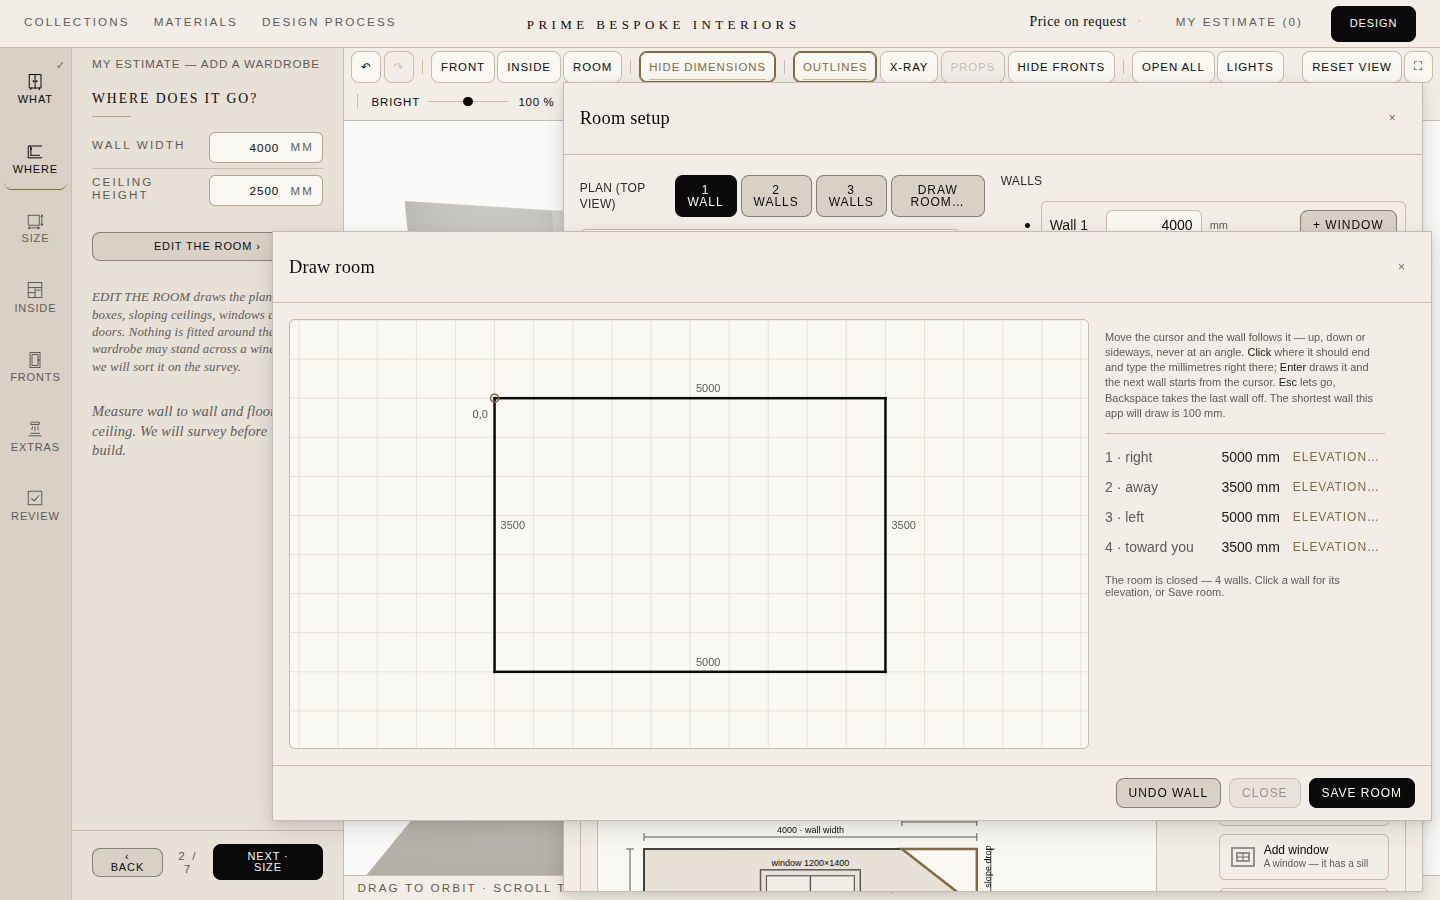
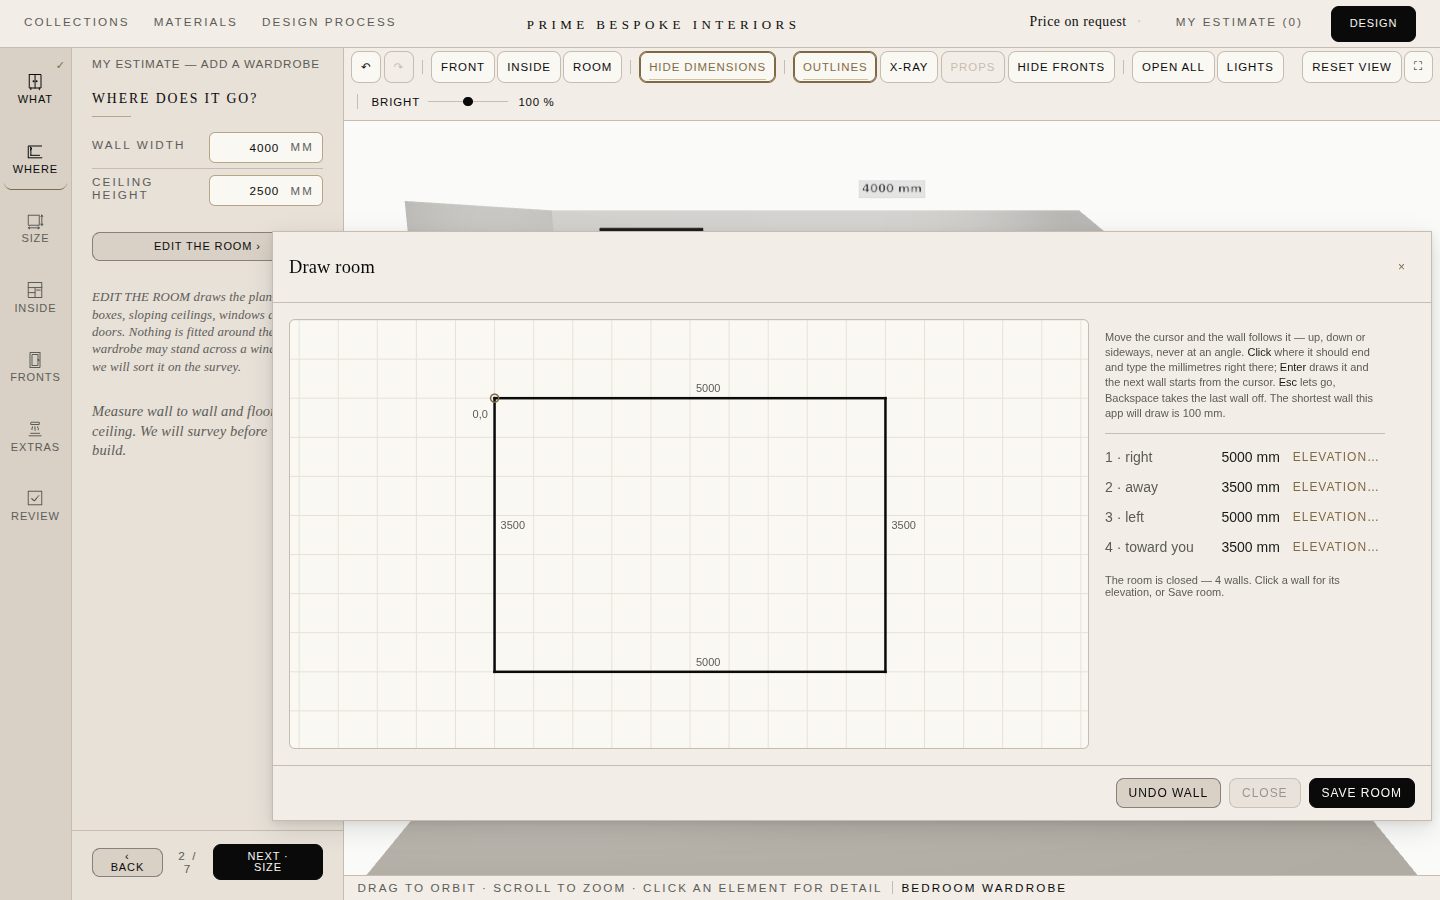
T74 F4 · setup room: a new room replaces the old one
setRoom gains { replace: true }: the new outline goes in and the old
room's openings, boxes and wall elements (slopes, recesses, chimneys)
go out in the same write, and only when the guard lets the new room
stand; height and returns are kept, cabinets are never touched. The
first save of a drawing (PRO and retail) is the new room; later saves of
the same drawing merge. Retail's room window no longer hides under the
drawing with the old outline: the drawing replaces it, as PRO's does.
The probe re-run after is committed beside the one before.

Claude-Session: https://claude.ai/code/session_01UVqjkXTvbnvDuKw9t6Pjdx

diff --git a/test/turn74-f4-a-new-room-replaces-the-old.test.js b/test/turn74-f4-a-new-room-replaces-the-old.test.js
@@ -1,0 +1,110 @@
+// ─── TURN 74 · F4 · SETUP ROOM: A NEW ROOM REPLACES THE OLD ONE ────────────
+//
+// The owner, 23.09.2026 (list point 2):
+//
+//   *"Przy tworzeniu nowego pokoju po starym jeden nachodzi na drugi zamiast
+//   resetu."*
+//
+// The probe (`verify/t74/f04-probe.md`, real mouse, committed before the fix)
+// convicted two sites: `setRoom` MERGES, so a drawn room kept the old room's
+// window and slope; and retail's room window stayed under the drawing with its
+// own draft of the old outline. These assertions are the probe's table.
+
+import test from 'node:test';
+import assert from 'node:assert/strict';
+import { readFileSync } from 'node:fs';
+
+import { rectCorners } from '../src/engine/room.js';
+import { cornersOfPath, newPath, addSegment, closePath } from '../src/engine/drawRoom.js';
+import { useProjectStore } from '../src/stores/projectStore.js';
+
+const ROOT = new URL('../', import.meta.url).pathname;
+const read = (rel) => readFileSync(`${ROOT}${rel}`, 'utf8');
+const uncomment = (t) => t.replace(/\/\*[\s\S]*?\*\//g, ' ').replace(/^[ \t]*\/\/.*$/gm, ' ');
+const S = () => useProjectStore.getState();
+
+/** A drawn rectangle, the engine's own way (`engine/drawRoom.js`). */
+function drawn(w, d) {
+  let path = newPath();
+  for (const [dir, mm] of [['E', w], ['S', d], ['W', w]]) path = addSegment(path, dir, mm).path;
+  return cornersOfPath(closePath(path).path);
+}
+
+/** The probe's OLD room: a window and a slope on wall 1, a box, one wardrobe. */
+function oldRoom() {
+  S().newProject();
+  S().setRoom({ corners: rectCorners(4000, 3000), height: 2500 });
+  S().addOpening({ kind: 'window', wall: 0, x_mm: 1400, width: 1200, height: 1400, sill: 850 });
+  S().setRoom({ boxes: [{ id: 'b1', x: 3000, y: 2000, w: 600, d: 400 }] });
+  S().addWallSlope({ wall: 0, side: 'right', kind: 'slope' });
+  const { id } = S().addUnit('WARDROBE', { params: { width: 1000, height: 2100, depth: 600 } });
+  assert.equal(S().project.room.openings.length, 1);
+  assert.ok((S().project.wallSlopes || []).length >= 1, 'the old room has no slope to lose');
+  assert.equal((S().project.room.boxes || []).length, 1);
+  return id;
+}
+
+test('T74 F4 · a NEW room replaces the old: walls, openings, boxes and slopes of the old one go', () => {
+  const unitId = oldRoom();
+  const verdict = S().setRoom({ corners: drawn(5000, 3500) }, { replace: true });
+  assert.equal(verdict.ok, true, verdict.message);
+  const room = S().project.room;
+  assert.deepEqual(room.corners.map((c) => [Math.round(c.x), Math.round(c.y)]),
+    [[0, 0], [5000, 0], [5000, 3500], [0, 3500]]);
+  assert.deepEqual(room.openings, [], 'the old room\'s window stands on the new room');
+  assert.equal((room.boxes || []).length, 0, 'the old room\'s box stands in the new room');
+  assert.deepEqual(S().project.wallSlopes, [], 'the old room\'s slope cuts the new room');
+  // The height and the returns are the room's settings, not its geometry.
+  assert.equal(room.height, 2500);
+  // Cabinets are NOT deleted.
+  assert.ok(S().units.some((u) => u.id === unitId), 'a cabinet was deleted');
+});
+
+test('T74 F4 · a refused new room clears NOTHING (the guard speaks first)', () => {
+  const unitId = oldRoom();
+  // A room too small for the wardrobe standing in it.
+  const verdict = S().setRoom({ corners: drawn(600, 400) }, { replace: true });
+  assert.equal(verdict.ok, false, 'a room smaller than its cabinet was accepted');
+  assert.equal(S().project.room.openings.length, 1, 'the refusal cleared the window');
+  assert.ok(S().project.wallSlopes.length >= 1, 'the refusal cleared the slope');
+  assert.equal(S().project.room.boxes.length, 1, 'the refusal cleared the box');
+  assert.ok(S().units.some((u) => u.id === unitId));
+});
+
+test('T74 F4 · without `replace`, setRoom is the merge it always was (an edit of THIS room)', () => {
+  oldRoom();
+  assert.equal(S().setRoom({ corners: rectCorners(4200, 3000) }).ok, true);
+  assert.equal(S().project.room.openings.length, 1, 'a wall edit lost the window');
+  assert.ok(S().project.wallSlopes.length >= 1, 'a wall edit lost the slope');
+});
+
+test('T74 F4 · both drawing windows: the FIRST save of a drawing is the new room', () => {
+  for (const rel of ['src/components/DrawRoomModal.jsx', 'src/retail/design/room/DrawRoomModal.jsx']) {
+    const src = uncomment(read(rel));
+    assert.match(src, /const newRoom = useRef\(true\);/, `${rel} does not know a drawing is a new room`);
+    assert.match(src, /setRoom\(\{ corners: cornersOfPath\(path\) \}, \{ replace: newRoom\.current \}\)/,
+      `${rel} saves a drawn room as a merge`);
+    // …and only the first: a window put on a NEW wall through its elevation
+    // (the wall click saves, then the elevation adds) survives the next save.
+    const save = src.slice(src.indexOf('const save = useCallback'), src.indexOf('const openWall'));
+    assert.match(save, /newRoom\.current = false;/, `${rel} replaces on every save`);
+    assert.ok(save.indexOf('newRoom.current = false;') > save.indexOf('if (!verdict?.ok)'),
+      `${rel} forgets the new room before the guard has let it stand`);
+  }
+});
+
+test('T74 F4 · retail: the drawing takes the room window\'s place, as PRO\'s does', () => {
+  const room = uncomment(read('src/retail/design/DesignRoom.jsx'));
+  assert.match(room, /const modalNow = useUiStore\(\(s\) => s\.modal\);/);
+  assert.match(room, /useEffect\(\(\) => \{ if \(modalNow === 'draw-room'\) setRoomEditor\(null\); \}, \[modalNow\]\);/);
+});
+
+test('T74 F4 · one law, one path: the replace is `setRoom`\'s own, with its own guard', () => {
+  const store = uncomment(read('src/stores/projectStore.js'));
+  const body = store.slice(store.indexOf('setRoom: (patch, opts = {}) => {'), store.indexOf('previewRoom:'));
+  assert.match(body, /const fresh = opts\?\.replace === true;/);
+  assert.match(body, /openings: \[\], boxes: \[\],/);
+  assert.match(body, /const verdict = roomChangeGuard\(next, s\.units\);\s*if \(!verdict\.ok\) return verdict;/);
+  assert.match(body, /\.\.\.\(fresh \? \{ wallSlopes: \[\] \} : \{\}\)/);
+  assert.ok(!/removeUnit|units: \[\]/.test(body), 'the new room deletes cabinets');
+});

diff --git a/src/stores/projectStore.js b/src/stores/projectStore.js
@@ -1299,14 +1299,38 @@ export const useProjectStore = create(dirtyGate((set, get) => ({
    * can create an overlap with nobody dragging anything, so it is blocked at
    * the setter rather than repaired afterwards (CLAUDE.md phase 3).
    *
+   * ─── T74 F4 · A NEW ROOM REPLACES THE OLD ONE ─────────────────────────────
+   *
+   * The owner, 23.09.2026: *"Przy tworzeniu nowego pokoju po starym jeden
+   * nachodzi na drugi zamiast resetu."*  The probe (`verify/t74/f04-probe.md`)
+   * convicted this setter: it MERGES, and the walls' elements live beside the
+   * room (`project.wallSlopes`), so a drawn room replaced the outline and kept
+   * every window, door, box, slope, recess and chimney of the room before it.
+   *
+   * `{ replace: true }` is the NEW ROOM: the old room's geometry goes (its
+   * openings, its boxes and every wall element) in the same write that puts
+   * the new outline in, and only when the guard lets the new outline stand, so
+   * a refused room clears nothing. The room's height and its returns are kept
+   * (the drawing asks for neither). Cabinets are NOT touched: one standing
+   * outside the new room is refused by the guard below, in its own words, as
+   * it always was. Without the option this is the merge it always was, which
+   * is what an edit of THIS room (a wall's width, a window) needs.
+   *
+   * @param {object} patch
+   * @param {{replace?:boolean}} [opts]
    * @returns {{ok:boolean, message:string|null, blocking:Array}}
    */
-  setRoom: (patch) => {
+  setRoom: (patch, opts = {}) => {
     const s = get();
-    const next = migrateRoom({ ...s.project.room, ...patch });
+    const fresh = opts?.replace === true;
+    const next = migrateRoom(fresh
+      ? {
+        ...s.project.room, ...patch, openings: [], boxes: [],
+      }
+      : { ...s.project.room, ...patch });
     const verdict = roomChangeGuard(next, s.units);
     if (!verdict.ok) return verdict;
-    set((st) => ({ project: { ...st.project, room: next } }));
+    set((st) => ({ project: { ...st.project, room: next, ...(fresh ? { wallSlopes: [] } : {}) } }));
     // A lower ceiling shortens every top infill; a longer wall opens a gap.
     get().refreshAutoParts();
     return verdict;

diff --git a/test/turn59-f1-the-switch.test.js b/test/turn59-f1-the-switch.test.js
@@ -83,7 +83,10 @@ const EXEMPT = {
     + 'selected (T73 F3\'s ref, `focus()` then `select()`), a refused number stays '
     + 'selected, and Escape cancels a typed number before it closes the window. '
     + '*"pole ... od razu ma focus i całą wartość zaznaczoną (np. 3437, piszę 3500 '
-    + 'bez myszki) ... Escape anuluje."*',
+    + 'bez myszki) ... Escape anuluje."* T74 F4 · the first save of a drawing is a NEW '
+    + 'room: `setRoom(..., { replace: true })` clears the old room\'s openings, boxes and '
+    + 'wall elements. *"Przy tworzeniu nowego pokoju po starym jeden nachodzi na drugi '
+    + 'zamiast resetu."*',
   // ─── ADDED BY TURN 72 · THE FOURTEEN THINGS THE OWNER CLICKED ON ─────────
   // The owner, 22.09.2026, walking the RETAIL configurator and naming what a
   // client cannot reach. Three of his fourteen points are answered in PRO's own
@@ -183,8 +186,8 @@ const FROZEN = {
[3 lines of base64/hex data omitted]
-  // T74 F3 · re-frozen at the new hash; `EXEMPT` above carries the reason.
[1 lines of base64/hex data omitted]
+  // T74 F3 + F4 · re-frozen at the new hash; `EXEMPT` above carries the reason.
[1 lines of base64/hex data omitted]
   // T71 F5: re-frozen at the new hash; `EXEMPT` above carries the reason.
[1 lines of base64/hex data omitted]
   // T72 F2/F3/F12 — re-frozen at the new hash; `EXEMPT` above carries the reason.

diff --git a/src/retail/design/room/DrawRoomModal.jsx b/src/retail/design/room/DrawRoomModal.jsx
@@ -125,6 +125,8 @@ export default function DrawRoomModal({ anchor: anchorProp = null, onClose = nul
   const [wall, setWall] = useState(null);          // the elevation being edited
   const svgRef = useRef(null);
   const fieldRef = useRef(null);
+  // T74 F4 · true until this drawing is first saved: that save is a new room.
+  const newRoom = useRef(true);
 
   const pen = penOf(path);
   const closed = path.length > 3
@@ -263,7 +265,12 @@ export default function DrawRoomModal({ anchor: anchorProp = null, onClose = nul
   const save = useCallback(() => {
     const issues = pathFaults(path);
     if (issues.length) { setError(issues[0]); return { ok: false, message: issues[0] }; }
-    const verdict = setRoom({ corners: cornersOfPath(path) });
+    // T74 F4 · *"Przy tworzeniu nowego pokoju po starym jeden nachodzi na
+    // drugi zamiast resetu."*  The FIRST save of a drawing is a new room: it
+    // replaces the old one (its openings, boxes and wall elements go with it).
+    // A later save of the same drawing merges, so a window put on a new wall
+    // through its elevation is kept.
+    const verdict = setRoom({ corners: cornersOfPath(path) }, { replace: newRoom.current });
     if (!verdict?.ok) {
       const message = verdict?.issues?.[0]?.message || verdict?.message
         || 'This outline cannot be applied — something in the room stands where a wall would go.';
@@ -271,6 +278,7 @@ export default function DrawRoomModal({ anchor: anchorProp = null, onClose = nul
       notify(message, 'warn');
       return { ok: false, message };
     }
+    newRoom.current = false;
     setError(null);
     setSaved(true);
     notify(`Room drawn — ${cornersOfPath(path).length} walls.`, 'ok');

diff --git a/src/components/DrawRoomModal.jsx b/src/components/DrawRoomModal.jsx
@@ -82,6 +82,8 @@ export default function DrawRoomModal({ anchor: anchorProp = null, onClose = nul
   const [wall, setWall] = useState(null);          // the elevation being edited
   const svgRef = useRef(null);
   const fieldRef = useRef(null);
+  // T74 F4 · true until this drawing is first saved: that save is a new room.
+  const newRoom = useRef(true);
 
   const pen = penOf(path);
   const closed = path.length > 3
@@ -164,7 +166,12 @@ export default function DrawRoomModal({ anchor: anchorProp = null, onClose = nul
   const save = useCallback(() => {
     const issues = pathFaults(path);
     if (issues.length) { setError(issues[0]); return { ok: false, message: issues[0] }; }
-    const verdict = setRoom({ corners: cornersOfPath(path) });
+    // T74 F4 · *"Przy tworzeniu nowego pokoju po starym jeden nachodzi na
+    // drugi zamiast resetu."*  The FIRST save of a drawing is a new room: it
+    // replaces the old one (its openings, boxes and wall elements go with it).
+    // A later save of the same drawing merges, so a window put on a new wall
+    // through its elevation is kept.
+    const verdict = setRoom({ corners: cornersOfPath(path) }, { replace: newRoom.current });
     if (!verdict?.ok) {
       const message = verdict?.issues?.[0]?.message || verdict?.message
         || 'This outline cannot be applied — something in the room stands where a wall would go.';
@@ -172,6 +179,7 @@ export default function DrawRoomModal({ anchor: anchorProp = null, onClose = nul
       notify(message, 'warn');
       return { ok: false, message };
     }
+    newRoom.current = false;
     setError(null);
     setSaved(true);
     notify(`Room drawn — ${cornersOfPath(path).length} walls.`, 'ok');

diff --git a/src/retail/design/DesignRoom.jsx b/src/retail/design/DesignRoom.jsx
@@ -180,6 +180,14 @@ export default function DesignRoom({ collection: wantCollection, query = {} }) {
   // `null` is closed; `{ anchor }` is open, and the rectangle is the
   // trigger's own, so the window stands BESIDE the button (rule 15).
   const [roomEditor, setRoomEditor] = useState(null);
+  // ─── T74 F4 · THE DRAWING TAKES THE ROOM WINDOW'S PLACE ──────────────────
+  // The probe (`verify/t74/f04-probe.md`): the room window stayed mounted
+  // under DRAW ROOM with its own draft of the OLD room, so after a new room was
+  // saved it went on showing the old outline over the new one. PRO's drawing
+  // REPLACES its room window (`openNav`); the client's does the same here, and
+  // EDIT THE ROOM opens a fresh window on the room that now stands.
+  const modalNow = useUiStore((s) => s.modal);
+  useEffect(() => { if (modalNow === 'draw-room') setRoomEditor(null); }, [modalNow]);
   // ─── T61 F1 · WHAT THE SHARED CORE SAID ABOUT THE LAST `+` ───────────────
   // One string, under the stage, in the third voice every refusal in this
   // app is written in. T64 F1.1: the Delete key's refusals land here too.

diff --git a/verify/t74/f04-probe-after.md b/verify/t74/f04-probe-after.md
@@ -1,0 +1,23 @@
+# T74 F4 · the probe: a new room on top of the old one
+
+The owner, 23.09.2026: *"Przy tworzeniu nowego pokoju po starym jeden nachodzi na drugi zamiast resetu."*
+
+Run by `node scripts/t74-f4-probe.mjs` against `npx vite preview --port 4173` (retail, `retail.html#/design`).
+Every step is a real click or key: EDIT THE ROOM, the elevation's ADD WINDOW and SLOPE RIGHT, DRAW ROOM, a click
+on the drawing and the length typed into the field that opens there, CLOSE, SAVE ROOM. The store and the scene
+are only read. `sceneWalls` counts the wall groups the scene draws (`userData.ccWall`), `roomWindowPlanWalls` the
+walls the room window's own plan draws (`data-plan-wall`).
+
+| when | corners | openings | slopes | boxes | scope | units | sceneWalls | sceneWallPlan | sceneRoomBox | roomWindowPlanWalls |
+|---|---|---|---|---|---|---|---|---|---|---|
+| 0 · the default room, one wardrobe | 0,0 4000,0 4000,3000 0,3000 | (none) | (none) | 0 | wall | 1 | 3 | 0 | 0 | 0 |
+| 1 · the old room: a window and a slope on wall 1 | 0,0 4000,0 4000,3000 0,3000 | window@w0:1400 | slope@w0:R | 0 | wall | 1 | 3 | 0 | 0 | 1 |
+| 2 · room A drawn and saved (5000 x 3500) | 0,0 5000,0 5000,3500 0,3500 | (none) | (none) | 0 | wall | 1 | 3 | 0 | 0 | 0 |
+| 3 · the room window again, before the new room | 0,0 5000,0 5000,3500 0,3500 | (none) | (none) | 0 | wall | 1 | 3 | 0 | 0 | 1 |
+| 4 · room B drawn and saved (3600 x 2800) | 0,0 3600,0 3600,2800 0,2800 | (none) | (none) | 0 | wall | 1 | 3 | 0 | 0 | 0 |
+## After the fix
+
+The same real-mouse run, after T74 F4. Each drawn room is a NEW room: the old room's window and slope do not
+survive it (rows 2 and 4), the cabinet stands, and the room window no longer hides under the drawing with the old
+outline in its draft (it is replaced by the drawing, as PRO's is; EDIT THE ROOM opens it fresh on the room that now
+stands, row 3). Frames `f04-probe-*.png` are this run's.
